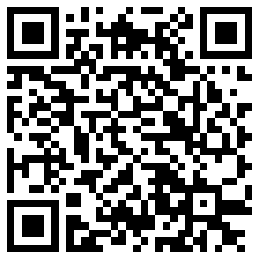
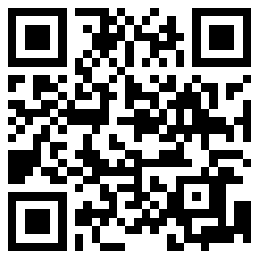
完成在pc端二维码提示功能

diff --git a/src/components/QRCode.tsx b/src/components/QRCode.tsx
@@ -1,7 +1,8 @@
-import { useState } from 'react';
-import React from 'react';
-import Icon from './Icon';
-import styled from 'styled-components';
+import { useState } from "react";
+import React from "react";
+import Icon from "./Icon";
+import styled from "styled-components";
+import imgQRCode from "assets/images/QRCode.png";
 
 const Wrapper = styled.div`
   display: none;
@@ -24,7 +25,7 @@ const Wrapper = styled.div`
     width: 300px;
     height: 300px;
     margin: auto;
-    background: url("/QRCode.png") center/100% 100%;
+    background: url(${imgQRCode}) center/100% 100%;
   }
 
   .tips {
@@ -56,12 +57,18 @@ const QRCode = () => {
       <div className="QR-code">
         <div className="tips">
           为了保证你的浏览效果，请扫描下方二维码使用手机浏览
-                        <div title="关闭" className="close" onClick={() => { setVisible(false) }}>
+          <div
+            title="关闭"
+            className="close"
+            onClick={() => {
+              setVisible(false);
+            }}
+          >
             <Icon name="close" />
           </div>
         </div>
       </div>
-    </Wrapper >
-  )
-}
-export { QRCode }
+    </Wrapper>
+  );
+};
+export { QRCode };
